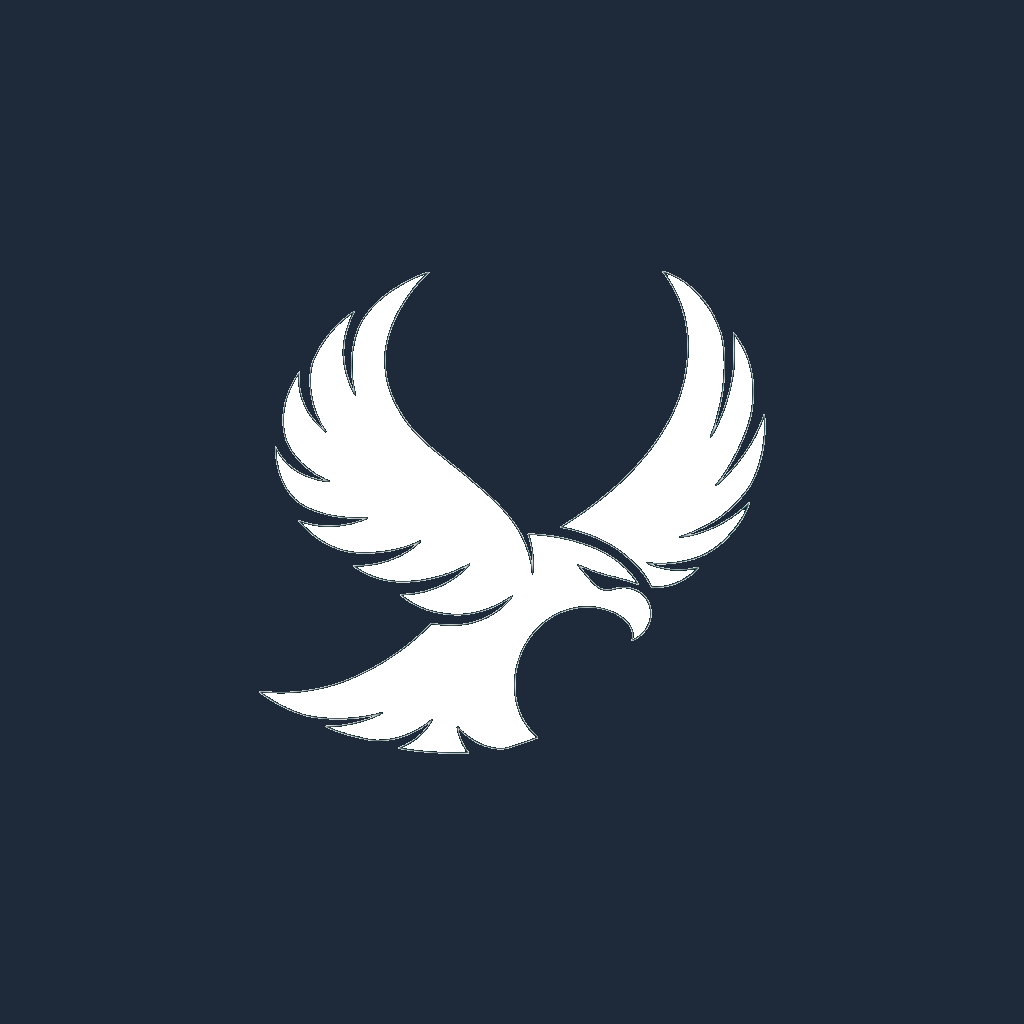
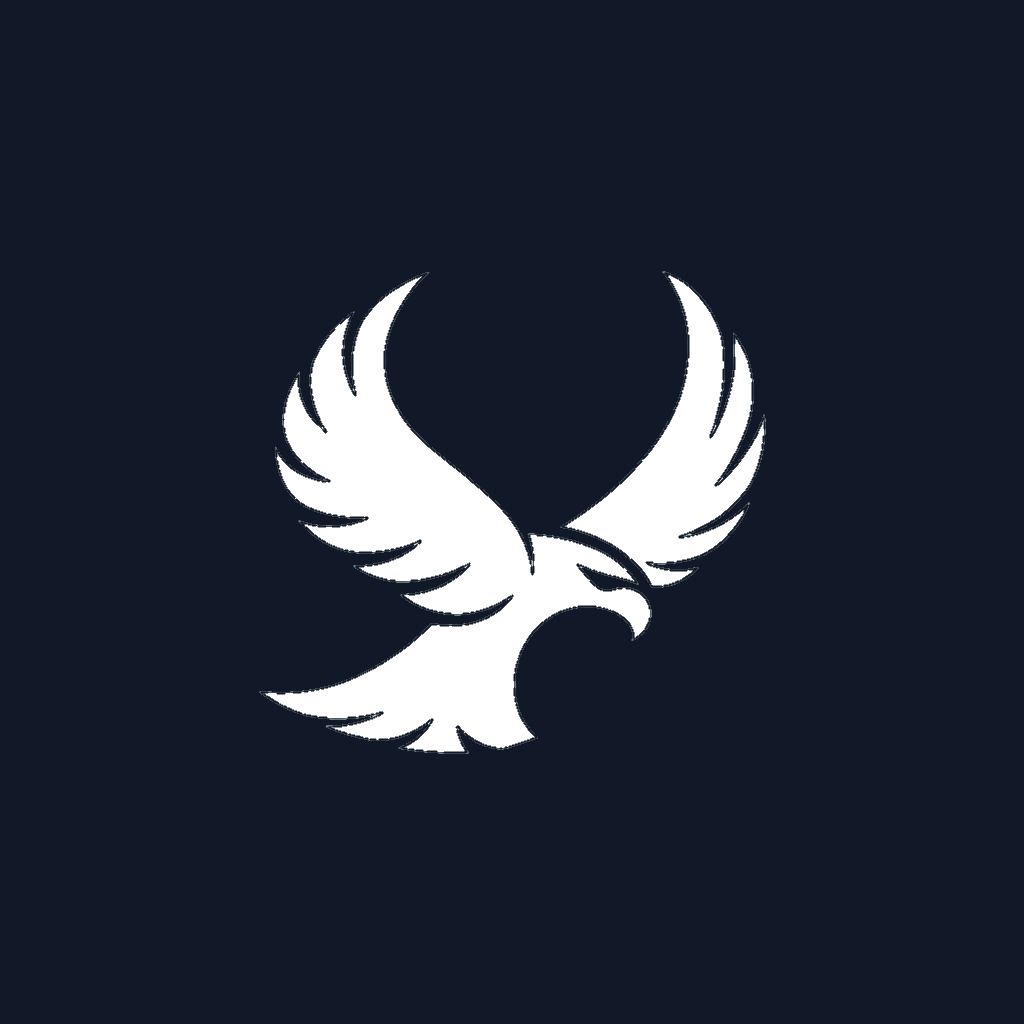
style nav

diff --git a/src/app/components/navigation.tsx b/src/app/components/navigation.tsx
@@ -21,7 +21,8 @@ export default function Navigation() {
         <div className="flex items-center">
           <div className="mr-6">
             <Image
-              src="/windlord-dark.png"
+              key={theme}
+              src={theme === 'light' ? "/windlord-semi-dark.png" : "/windlord-dark.png"}
               alt="WindLord Logo"
               width={64}
               height={64}
@@ -36,7 +37,7 @@ export default function Navigation() {
                 <Link
                   href={href}
                   className={`px-3 py-2 rounded-md transition-all duration-200 hover:bg-[var(--nav-text)]/10 ${pathname === href
-                    ? "bg-[var(--nav-text)]/30 text-[var(--nav-text)] font-medium"
+                    ? "bg-[var(--nav-text)]/10 text-[var(--nav-text)] font-medium"
                     : "text-[var(--nav-text)]/50 hover:text-[var(--nav-text)]"
                     }`}
                 >
